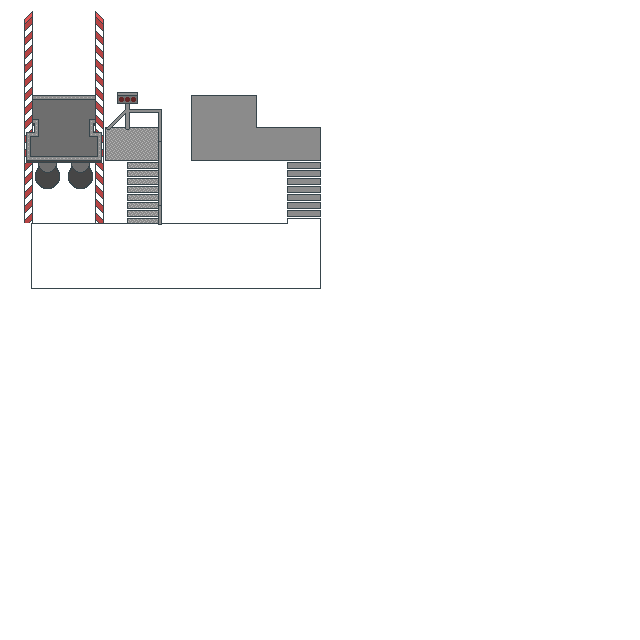
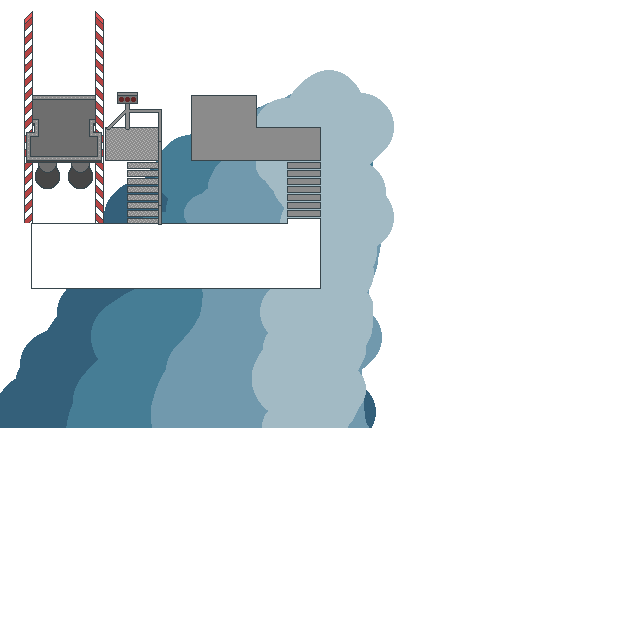
very basic parallax

Changed region(s): [[0.0, 0.0938, 0.625, 0.6875]]

diff --git a/AstroMiner/Utilities/ViewHelpers.cs b/AstroMiner/Utilities/ViewHelpers.cs
@@ -15,11 +15,11 @@ public class ViewHelpers(GameState gameState, GraphicsDeviceManager graphics)
         return (int)Math.Ceiling(value);
     }
 
-    private Rectangle AdjustRectForCamera(float x, float y, float width, float height)
+    private Rectangle AdjustRectForCamera(float x, float y, float width, float height, float parallaxLayer = 1)
     {
         var (xPx, yPx) = GridPosToDisplayedPx(gameState.Ecs.ActiveControllableEntityCenterPosition);
-        var adjustedX = x - xPx + graphics.GraphicsDevice.Viewport.Width / 2f;
-        var adjustedY = y - yPx + graphics.GraphicsDevice.Viewport.Height / 2f;
+        var adjustedX = x - xPx * parallaxLayer + graphics.GraphicsDevice.Viewport.Width / 2f;
+        var adjustedY = y - yPx * parallaxLayer + graphics.GraphicsDevice.Viewport.Height / 2f;
         return new Rectangle(
             ConvertToRenderedPxValue_CAUTION(adjustedX),
             ConvertToRenderedPxValue_CAUTION(adjustedY),
@@ -33,11 +33,11 @@ public class ViewHelpers(GameState gameState, GraphicsDeviceManager graphics)
         return (graphics.GraphicsDevice.Viewport.Width, graphics.GraphicsDevice.Viewport.Height);
     }
 
-    public Rectangle GetVisibleRectForGridCell(float gridX, float gridY, float widthOnGrid = 1, float heightOnGrid = 1)
+    public Rectangle GetVisibleRectForGridCell(float gridX, float gridY, float widthOnGrid = 1, float heightOnGrid = 1, float parallaxLayer = 1)
     {
         return AdjustRectForCamera(ConvertGridUnitsToVisiblePx(gridX), ConvertGridUnitsToVisiblePx(gridY),
             ConvertGridUnitsToVisiblePx(widthOnGrid),
-            ConvertGridUnitsToVisiblePx(heightOnGrid));
+            ConvertGridUnitsToVisiblePx(heightOnGrid), parallaxLayer);
     }
 
     public Rectangle GetVisibleRectForWallQuadrant(int gridX, int gridY, Corner corner)

diff --git a/AstroMiner/Renderers/HomeWorld/HomeWorldRenderer.cs b/AstroMiner/Renderers/HomeWorld/HomeWorldRenderer.cs
@@ -15,6 +15,7 @@ public class HomeWorldRenderer : BaseWorldRenderer
 
     public override void RenderWorld(SpriteBatch spriteBatch)
     {
+        spriteBatch.Draw(Shared.Textures["scrolling-mountains"], Shared.ViewHelpers.GetVisibleRectForGridCell(-7, -110, 25, 125, 0.5f), Color.White);
         spriteBatch.Draw(Shared.Textures["oizus-bg"], Shared.ViewHelpers.GetVisibleRectForGridCell(0, 0, 20, 20), Color.White);
         // RenderDebugCollisionMap(spriteBatch);
     }

diff --git a/AstroMiner/Renderers/Renderer.cs b/AstroMiner/Renderers/Renderer.cs
@@ -107,7 +107,7 @@ public class Renderer
 
     private void RenderScene(SpriteBatch spriteBatch)
     {
-        _scrollingBackgroundRenderer.RenderBackground(spriteBatch);
+        // _scrollingBackgroundRenderer.RenderBackground(spriteBatch);
 
         ActiveWorldRenderer.RenderWorld(spriteBatch);
 

diff --git a/AstroMiner/AstroMinerGame.cs b/AstroMiner/AstroMinerGame.cs
@@ -81,6 +81,7 @@ public class AstroMinerGame : Game
         LoadTexture("grapple-icon");
         LoadTexture("oizus-bg");
         LoadTexture("launch-light");
+        LoadTexture("scrolling-mountains");
     }
 
     protected override void Update(GameTime gameTime)
